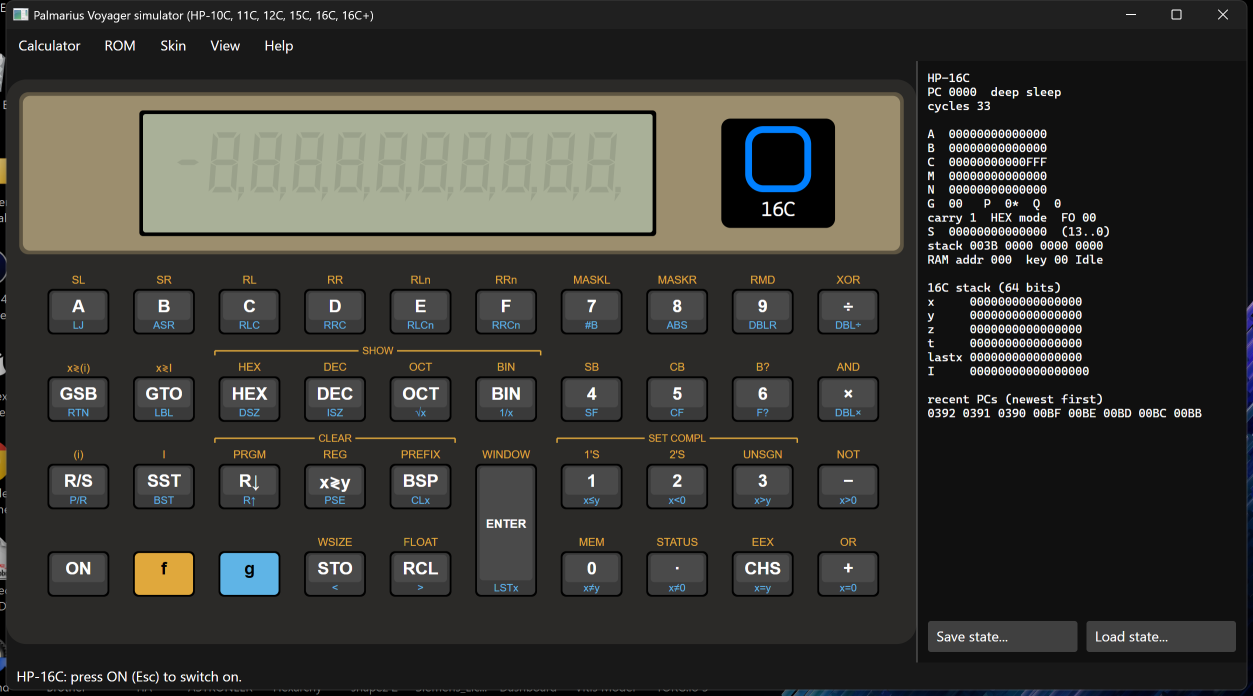
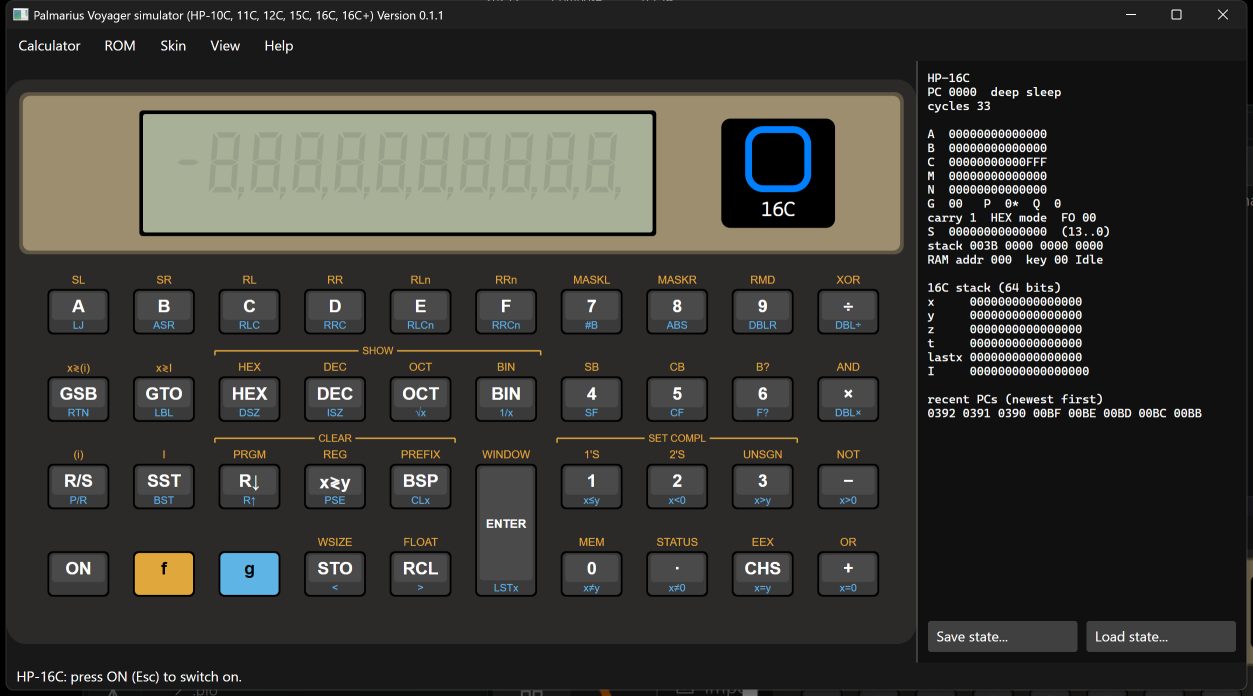
Show the version in the window title

diff --git a/csharp/src/Hp16c.App/MainWindow.cs b/csharp/src/Hp16c.App/MainWindow.cs
@@ -31,7 +31,8 @@ sealed class MainWindow : Window
 
     public MainWindow()
     {
-        Title = "Palmarius Voyager simulator (HP-10C, 11C, 12C, 15C, 16C, 16C+)";
+        Title = "Palmarius Voyager simulator (HP-10C, 11C, 12C, 15C, 16C, 16C+) Version " +
+                typeof(MainWindow).Assembly.GetName().Version?.ToString(3);
         Width = 1240;
         Height = 660;
         Background = new SolidColorBrush(Color.FromRgb(0x18, 0x18, 0x18));
